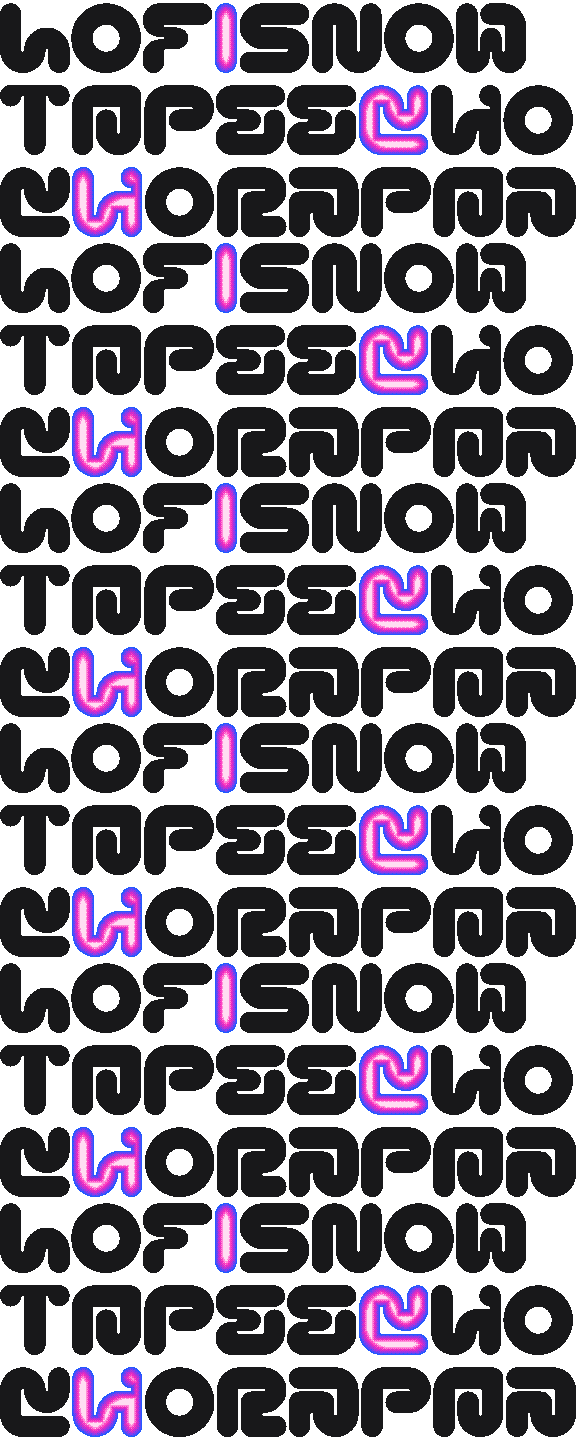
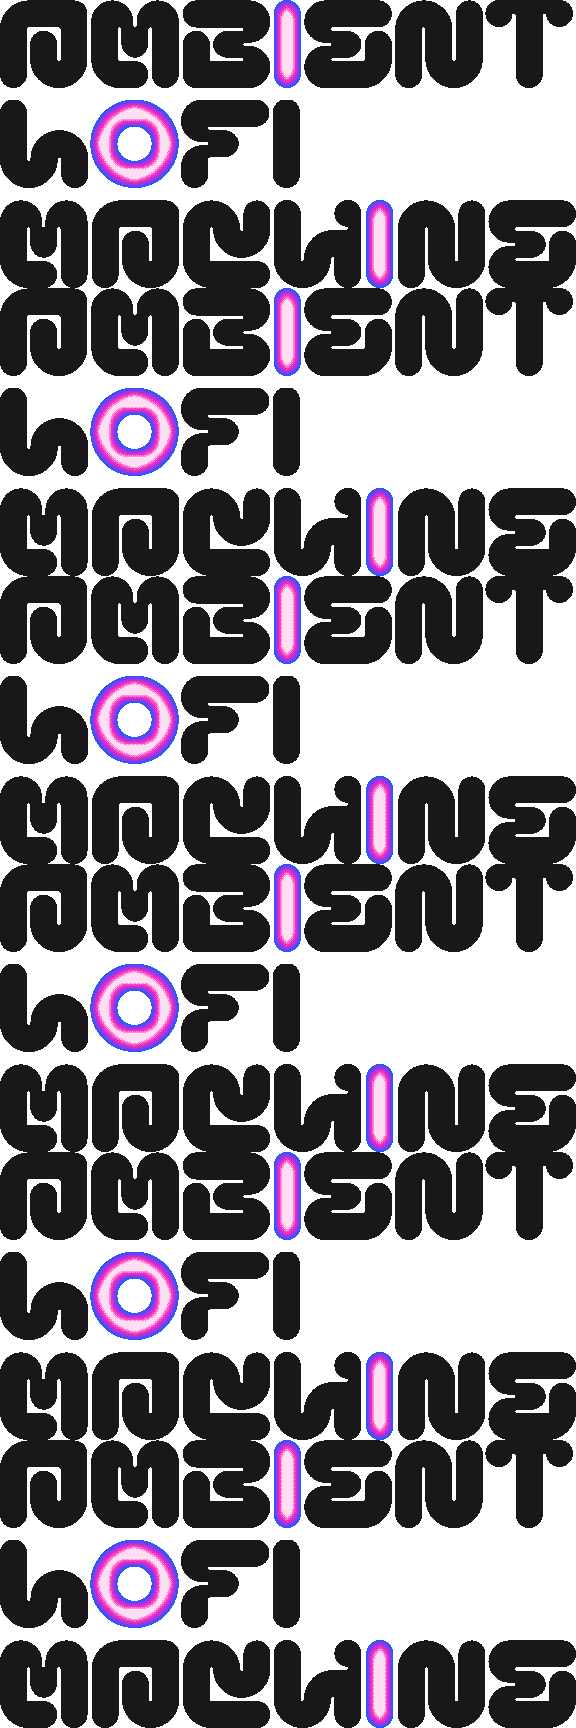
The sounds' lights, the keys in a column, the screens on paper, real words in the footer, the action heats
Section 4 says what the images are: each sound's light, its name and character in a night
chip. The keys are one column of keycaps. Section 5 is on the paper ground, its legend one
line an item, its pages a row of names. The footer reads ambient, lofi, machine. The action
no longer underlines: reached, its core goes pink and its bits run faster; pressed, magenta.

diff --git a/web/style.css b/web/style.css
@@ -66,6 +66,10 @@ kbd {
   border: 0; border-radius: 24px; background: var(--t7); color: #18181a; text-decoration: none;
   border-image: var(--ring24) 24 / 24px repeat;
 }
+/* the light heats as you reach it: hovered, its core goes pink and its bits run faster (app.js); pressed, magenta */
+.lit:hover, .lit:focus-visible, .pill:hover, .pill:focus-visible, .page:hover { text-decoration: none; background: #ff8cda; outline: none; }
+.lit:active, .pill:active, .page:active { background: var(--t4); color: #f5f5f2; }
+.page:active span, .page:active kbd { color: #f5f5f2; }
 .heat { position: absolute; left: 0; top: 0; image-rendering: pixelated; }
 .hov { position: relative; }
 .hov:hover::after { content: ""; position: absolute; inset: 0; pointer-events: none; z-index: 3; border-image: var(--ring24) 24 / 24px repeat; }
@@ -96,20 +100,23 @@ figure.hov:hover::after { border-image: var(--ring12) 12 / 12px repeat; }
 .card > p { position: absolute; z-index: 2; }
 
 /* ---- 01 play: the machine on its light */
-.play { grid-template-rows: repeat(19, var(--m)); }
+.play { grid-template-rows: repeat(22, var(--m)); }
 .emu { grid-column: 3 / span 20; grid-row: 2 / span 13; display: flex; align-items: center; justify-content: center; overflow: hidden; background: #141416; border-color: #141416; }
 .panel { position: relative; z-index: 1; width: min(100% - 96px, var(--ph) * 1.6283); aspect-ratio: 876 / 538; }
 .panel svg { display: block; width: 100%; height: 100%; touch-action: none; user-select: none; }
 .panel canvas { position: absolute; image-rendering: pixelated; border-radius: 4px; }
 .power { grid-column: 3 / span 4; grid-row: 16; }
-.vol { grid-column: 8 / span 6; grid-row: 16; display: flex; align-items: center; gap: 12px; }
+.vol { grid-column: 3 / span 8; grid-row: 18; display: flex; align-items: center; gap: 12px; }
 .vol .lb { color: var(--ink); }
 .ticks { flex: 1; height: 24px; display: flex; align-items: center; justify-content: space-between; cursor: ew-resize; touch-action: none; }
 .ticks i { width: 1px; height: 12px; background: var(--line); }
 .ticks i.on { background: var(--ink); }
 .ticks i.at { width: 2px; height: 24px; background: var(--t4); }
-.keys { grid-column: 3 / span 20; grid-row: 17 / span 2; display: flex; flex-wrap: wrap; align-content: flex-start; gap: 0 32px; padding-top: 12px; color: var(--label); }
-.keys > span { display: inline-flex; align-items: center; gap: 6px; height: 24px; margin-bottom: 24px; }
+/* the keys: one column, a row each, the keycaps in their own column */
+.keys { grid-column: 13 / span 10; grid-row: 16 / span 6; margin: 0; padding: 0; list-style: none; display: grid; grid-auto-rows: var(--m); color: var(--label); }
+.keys li { display: grid; grid-template-columns: calc(4 * var(--m)) 1fr; align-items: center; box-shadow: inset 0 1px 0 var(--line); }
+.keys li:first-child { box-shadow: none; }
+.keys li > span { display: inline-flex; align-items: center; gap: 6px; color: var(--ink); }
 
 /* ---- 02 the machine: cards of the sizes their content asks, linked as nodes */
 .machine { grid-template-rows: repeat(10, var(--m)); }
@@ -148,25 +155,28 @@ figure.hov:hover::after { border-image: var(--ring12) 12 / 12px repeat; }
 .plate { grid-column: 1 / -1; grid-row: 7 / span 6; width: 100%; aspect-ratio: 4 / 1; }
 
 /* ---- 04 the light: each piece its own proportion, 8-bit, every edge on a line */
-.art { grid-template-rows: repeat(14, var(--m)); }
+.art { grid-template-rows: repeat(17, var(--m)); }
+.art .say { grid-column: 1 / span 16; grid-row: 2 / span 2; }
 .art figure { position: relative; width: calc(100% + 1px); height: calc(100% + 1px); border-radius: 12px; overflow: hidden; background: #141416; }
-.art figcaption { position: absolute; z-index: 2; left: 12px; top: 12px; color: #77777a; }
-.art figcaption b { color: #f5f5f2; margin-right: 6px; }
-.a1 { grid-column: 1 / span 12; grid-row: 2 / span 8; }
-.a2 { grid-column: 14 / span 6; grid-row: 2 / span 4; }
-.a3 { grid-column: 21 / span 4; grid-row: 2 / span 5; }
-.a4 { grid-column: 14 / span 4; grid-row: 7 / span 7; }
-.a5 { grid-column: 19 / span 6; grid-row: 7 / span 3; }
-.a6 { grid-column: 19 / span 6; grid-row: 11 / span 3; }
-.a7 { grid-column: 1 / span 12; grid-row: 11 / span 3; }
+/* a card's title on the light: what, which, in a chip of the night ground so it reads on any glow */
+.art figcaption { position: absolute; z-index: 2; left: 12px; top: 12px; padding: 0 12px; display: flex; flex-direction: column;
+  background: #141416; border-radius: 12px; color: #77777a; }
+.art figcaption b { color: #f5f5f2; }
+.a1 { grid-column: 1 / span 12; grid-row: 5 / span 8; }
+.a2 { grid-column: 14 / span 6; grid-row: 5 / span 4; }
+.a3 { grid-column: 21 / span 4; grid-row: 5 / span 5; }
+.a4 { grid-column: 14 / span 4; grid-row: 10 / span 7; }
+.a5 { grid-column: 19 / span 6; grid-row: 10 / span 3; }
+.a6 { grid-column: 19 / span 6; grid-row: 14 / span 3; }
+.a7 { grid-column: 1 / span 12; grid-row: 14 / span 3; }
 .art .seal { width: auto; height: auto; overflow: visible; background: none; border-radius: 0; }
 .art .seal .bits { width: 192px; height: 192px; }
-.art .seal figcaption { left: 0; top: 204px; color: var(--label); }
+.art .seal figcaption { left: 0; top: 192px; padding: 0; background: none; border-radius: 0; color: var(--label); }
 .art .seal figcaption b { color: var(--ink); }
 
 /* ---- 05 the screens: one at 1.5x (whole pixels on a retina screen) in its lit frame, five marks on it and their
- * legend, and the twelve pages as an index, the one shown lit */
-.screens { grid-template-rows: repeat(16, var(--m)); }
+ * legend, and the twelve pages as a row of names, the one shown lit */
+.screens { grid-template-rows: repeat(17, var(--m)); }
 .main { grid-column: 1 / span 9; grid-row: 2 / span 9; position: relative; }
 .main .frame { position: absolute; left: 0; top: 0; width: 432px; height: 432px; }
 .main .f288 { display: none; }
@@ -182,13 +192,11 @@ figure.hov:hover::after { border-image: var(--ring12) 12 / 12px repeat; }
 .m4 { left: 150px; top: 177px; } .m5 { left: 123px; top: 249px; }
 .shown { grid-column: 1 / span 9; grid-row: 11; padding-top: 12px; color: var(--label); }
 .shown b { color: var(--ink); margin-right: 6px; }
-.legend { grid-column: 11 / span 6; grid-row: 2 / span 10; margin: 0; padding: 0; list-style: none; display: grid; grid-auto-rows: calc(2 * var(--m)); }
-.legend li { display: grid; grid-template-columns: 36px 1fr; align-content: start; padding-top: 12px; }
-.legend li b { grid-column: 2; }
-.legend li .mk { grid-row: 1 / span 2; }
-.legend li span { grid-column: 2; color: var(--label); }
-.index { grid-column: 18 / span 7; grid-row: 2 / span 13; display: grid; grid-auto-rows: var(--m); }
-.ih { padding-top: 12px; color: var(--label); }
+.legend { grid-column: 11 / span 14; grid-row: 2 / span 10; margin: 0; padding: 0; list-style: none; display: grid; grid-auto-rows: calc(2 * var(--m)); }
+.legend li { display: flex; flex-wrap: wrap; align-items: flex-start; align-content: flex-start; column-gap: 12px; padding-top: 12px; }
+.legend li span { color: var(--label); }
+.index { grid-column: 1 / -1; grid-row: 13 / span 3; display: grid; grid-template-columns: repeat(6, calc(4 * var(--m))); grid-auto-rows: var(--m); }
+.ih { grid-column: 1 / -1; padding-top: 12px; color: var(--label); }
 .ih b { color: var(--ink); margin-right: 6px; }
 .page {
   width: calc(100% + 1px); height: calc(var(--m) + 1px); display: flex; align-items: center; gap: 12px; padding: 0 12px;
@@ -196,12 +204,11 @@ figure.hov:hover::after { border-image: var(--ring12) 12 / 12px repeat; }
 }
 .page span { color: var(--label); }
 .page.on, .page:hover, .page:focus-visible { background: var(--t7); color: #18181a; border-image: var(--ring24) 24 / 24px repeat; outline: none; }
-.page.on span, .page:hover span, .page:focus-visible span { color: #8e8e8a; }
-.page.on kbd, .page:hover kbd, .page:focus-visible kbd { color: #18181a; border-color: #8e8e8a; }
+.page:hover { background: #ff8cda; }
 
 /* ---- the footer: the words, whole, ink on paper; the links; the end */
-.bandrow { grid-template-rows: repeat(12, var(--m)); }
-.band { grid-column: 1 / -1; grid-row: 2 / span 10; width: 100%; aspect-ratio: 576 / 240; }
+.bandrow { grid-template-rows: repeat(14, var(--m)); }
+.band { grid-column: 1 / -1; grid-row: 2 / span 12; width: 100%; aspect-ratio: 2 / 1; }
 .foot { box-shadow: inset 0 1px 0 var(--ink); }
 .foot > * { padding-top: 12px; font-weight: 500; }
 .links { grid-template-rows: var(--m); }
@@ -221,11 +228,11 @@ figure.hov:hover::after { border-image: var(--ring12) 12 / 12px repeat; }
   .mark { grid-row: 2 / span 4; }
   .hero .say { grid-column: 1 / span 16; grid-row: 7 / span 2; }
   .hero .meta { grid-column: 1 / span 10; grid-row: 9 / span 3; padding-top: 12px; }
-  .play { grid-template-rows: repeat(18, var(--m)); }
+  .play { grid-template-rows: repeat(23, var(--m)); }
   .emu { grid-column: 1 / span 16; grid-row: 2 / span 11; }
   .power { grid-column: 1 / span 4; grid-row: 14; }
-  .vol { grid-column: 6 / span 6; grid-row: 14; }
-  .keys { grid-column: 1 / span 16; grid-row: 15 / span 3; }
+  .vol { grid-column: 6 / span 7; grid-row: 14; }
+  .keys { grid-column: 1 / span 12; grid-row: 16 / span 6; }
   .machine { grid-template-rows: repeat(15, var(--m)); }
   .c3 { grid-column: 1 / span 16; grid-row: 11 / span 4; }
   .c3 .big { left: auto; right: 23px; top: 23px; }
@@ -233,18 +240,20 @@ figure.hov:hover::after { border-image: var(--ring12) 12 / 12px repeat; }
   .text .say { grid-column: 1 / span 16; grid-row: 2 / span 3; }
   .text .meta { grid-column: 1 / span 10; grid-row: 5 / span 3; padding-top: 12px; }
   .plate { grid-row: 9 / span 4; }
-  .art { grid-template-rows: repeat(19, var(--m)); }
-  .a1 { grid-column: 1 / span 16; grid-row: 2 / span 8; }
-  .a2 { grid-column: 1 / span 7; grid-row: 11 / span 4; }
-  .a3 { grid-column: 9 / span 4; grid-row: 11 / span 5; }
-  .a5 { grid-column: 1 / span 7; grid-row: 16 / span 3; }
-  .a7 { grid-column: 9 / span 8; grid-row: 16 / span 3; }
+  .art { grid-template-rows: repeat(22, var(--m)); }
+  .art .say { grid-column: 1 / span 16; grid-row: 2 / span 2; }
+  .a1 { grid-column: 1 / span 16; grid-row: 5 / span 8; }
+  .a2 { grid-column: 1 / span 7; grid-row: 14 / span 4; }
+  .a3 { grid-column: 9 / span 4; grid-row: 14 / span 5; }
+  .a5 { grid-column: 1 / span 7; grid-row: 19 / span 3; }
+  .a7 { grid-column: 9 / span 8; grid-row: 19 / span 3; }
   .art .a4, .art .a6 { display: none; }
-  .screens { grid-template-rows: repeat(21, var(--m)); }
-  .index { grid-column: 1 / -1; grid-row: 13 / span 7; grid-template-columns: repeat(2, calc(8 * var(--m))); grid-auto-flow: column; grid-template-rows: repeat(7, var(--m)); }
-  .ih { grid-row: 1; grid-column: 1 / -1; }
-  .bandrow { grid-template-rows: repeat(8, var(--m)); }
-  .band { grid-row: 2 / span 7; }
+  .screens { grid-template-rows: repeat(18, var(--m)); }
+  .legend { grid-column: 11 / span 6; }
+  .legend li { flex-direction: column; }
+  .index { grid-row: 13 / span 4; grid-template-columns: repeat(4, calc(4 * var(--m))); }
+  .bandrow { grid-template-rows: repeat(10, var(--m)); }
+  .band { grid-row: 2 / span 8; }
   .links { grid-template-rows: repeat(2, var(--m)); }
   .fin { grid-template-rows: repeat(4, var(--m)); }
   .fin > :nth-child(1) { grid-column: 1 / span 4; grid-row: 1; }
@@ -263,13 +272,13 @@ figure.hov:hover::after { border-image: var(--ring12) 12 / 12px repeat; }
   .mark { grid-column: 1 / -1; grid-row: 2 / span 2; align-self: center; }
   .hero .say { grid-column: 1 / -1; grid-row: 5 / span 3; }
   .hero .meta { grid-column: 1 / -1; grid-row: 8 / span 3; padding-top: 0; }
-  .play { grid-template-rows: repeat(15, var(--m)); }
+  .play { grid-template-rows: repeat(24, var(--m)); }
   .emu { grid-column: 1 / -1; grid-row: 2 / span 5; }
   .panel { width: min(100% - 48px, var(--ph) * 1.6283); }
   .power { grid-column: 1 / span 4; grid-row: 8; }
   .vol { grid-column: 1 / -1; grid-row: 9; }
-  .keys { grid-column: 1 / -1; grid-row: 10 / span 5; }
-  .keys > span { margin-bottom: 0; height: 48px; }
+  .keys { grid-column: 1 / -1; grid-row: 11 / span 12; grid-auto-rows: calc(2 * var(--m)); }
+  .keys li { grid-template-columns: 1fr; align-content: center; }
   .machine { grid-template-rows: repeat(23, var(--m)); }
   .c1 { grid-column: 1 / -1; grid-row: 2 / span 7; }
   .c2 { grid-column: 1 / -1; grid-row: 10 / span 4; }
@@ -284,11 +293,12 @@ figure.hov:hover::after { border-image: var(--ring12) 12 / 12px repeat; }
   .text .say { grid-column: 1 / -1; grid-row: 2 / span 4; }
   .text .meta { grid-column: 1 / -1; grid-row: 6 / span 5; padding-top: 0; }
   .plate { grid-row: 11 / span 2; }
-  .art { grid-template-rows: repeat(22, var(--m)); }
-  .a1 { grid-column: 1 / -1; grid-row: 2 / span 5; }
-  .a2 { grid-column: 1 / -1; grid-row: 8 / span 4; }
-  .a3 { grid-column: 1 / span 4; grid-row: 13 / span 5; }
-  .a5 { grid-column: 1 / -1; grid-row: 19 / span 3; }
+  .art { grid-template-rows: repeat(27, var(--m)); }
+  .art .say { grid-column: 1 / -1; grid-row: 2 / span 4; }
+  .a1 { grid-column: 1 / -1; grid-row: 7 / span 5; }
+  .a2 { grid-column: 1 / -1; grid-row: 13 / span 4; }
+  .a3 { grid-column: 1 / span 4; grid-row: 18 / span 5; }
+  .a5 { grid-column: 1 / -1; grid-row: 24 / span 3; }
   .art .a4, .art .a6, .art .a7 { display: none; }
   .screens { grid-template-rows: repeat(34, var(--m)); }
   .main { grid-column: 1 / -1; grid-row: 2 / span 6; }
@@ -299,9 +309,10 @@ figure.hov:hover::after { border-image: var(--ring12) 12 / 12px repeat; }
   .m4 { left: 120px; top: 114px; } .m5 { left: 102px; top: 162px; }
   .shown { grid-column: 1 / -1; grid-row: 8; padding-left: 48px; }
   .legend { grid-column: 1 / -1; grid-row: 9 / span 10; }
-  .index { grid-column: 1 / -1; grid-row: 20 / span 13; }
-  .bandrow { grid-template-rows: repeat(5, var(--m)); }
-  .band { grid-row: 2 / span 3; align-self: center; }
+  .legend li { flex-direction: column; }
+  .index { grid-row: 20 / span 13; grid-template-columns: 1fr; }
+  .bandrow { grid-template-rows: repeat(6, var(--m)); }
+  .band { grid-row: 2 / span 4; align-self: center; }
   .links { grid-template-rows: repeat(6, var(--m)); }
   .links > * { grid-column: 1 / -1; }
   .fin { grid-template-rows: repeat(8, var(--m)); }

diff --git a/web/index.html b/web/index.html
@@ -44,14 +44,14 @@
     <button class="power lit" id="power">Power on</button>
     <div class="vol"><span class="lb">Volume</span><span class="ticks" id="vol" role="slider" aria-label="Volume"
       aria-valuemin="0" aria-valuemax="100" aria-valuenow="80" tabindex="0"></span></div>
-    <p class="keys">
-      <span><kbd>Z</kbd>–<kbd>/</kbd> <kbd>S</kbd>–<kbd>'</kbd> <kbd>Q</kbd>–<kbd>O</kbd> Keys</span>
-      <span><kbd>1</kbd>–<kbd>=</kbd> FX … REC</span>
-      <span><kbd>[</kbd> <kbd>]</kbd> OCT</span>
-      <span><kbd>↑</kbd> <kbd>↓</kbd> Select</span>
-      <span><kbd>←</kbd> <kbd>→</kbd> Algorithm</span>
-      <span><kbd>Shift</kbd>-click holds a button</span>
-    </p>
+    <ul class="keys" aria-label="The computer's keys">
+      <li><span><kbd>Z</kbd>–<kbd>/</kbd> <kbd>S</kbd>–<kbd>'</kbd></span>The lower keys, F3 to A4</li>
+      <li><span><kbd>Q</kbd>–<kbd>O</kbd></span>The upper keys, B4 to G5</li>
+      <li><span><kbd>1</kbd>–<kbd>=</kbd></span>The twelve buttons, FX to REC</li>
+      <li><span><kbd>[</kbd> <kbd>]</kbd></span>OCT− and OCT+</li>
+      <li><span><kbd>↑</kbd> <kbd>↓</kbd> <kbd>←</kbd> <kbd>→</kbd></span>Select, then Algorithm</li>
+      <li><span><kbd>Shift</kbd> click</span>Holds a button down</li>
+    </ul>
   </section>
 
   <!-- 02 the machine: cards of the sizes their content asks, linked as nodes -->
@@ -89,21 +89,22 @@
     <div class="plate bits" style="--src: url(img/plate.png)" role="img" aria-label="Ambient, in line and in light"></div>
   </section>
 
-  <!-- 04 the light: the art on the grid, each piece its own proportion, 8-bit -->
-  <section class="g strip"><span class="no">04</span><span class="lb">Light</span></section>
+  <!-- 04 the sounds: each one's light, as it glows on the screen while it plays -->
+  <section class="g strip"><span class="no">04</span><span class="lb">Sounds</span></section>
   <section class="g art">
-    <figure class="a1 hov"><canvas class="heat" data-heat="img/art/flow.png"></canvas><figcaption><b>Image</b> Flow</figcaption></figure>
-    <figure class="a2 hov"><canvas class="heat" data-heat="img/art/pool.png"></canvas><figcaption><b>Image</b> Pool</figcaption></figure>
-    <figure class="a3 seal"><div class="bits" style="--src: url(img/seal.png)" role="img" aria-label="The seal: a ring of ticks round the D"></div><figcaption><b>Seal</b> Phase 0</figcaption></figure>
-    <figure class="a4 hov"><canvas class="heat" data-heat="img/art/rise.png"></canvas><figcaption><b>Image</b> Rise</figcaption></figure>
-    <figure class="a5 hov"><canvas class="heat" data-heat="img/art/drift.png"></canvas><figcaption><b>Image</b> Drift</figcaption></figure>
-    <figure class="a6 hov"><canvas class="heat" data-heat="img/art/twin.png"></canvas><figcaption><b>Image</b> Twin</figcaption></figure>
-    <figure class="a7 hov"><canvas class="heat" data-heat="img/art/wave.png"></canvas><figcaption><b>Image</b> Wave</figcaption></figure>
+    <p class="say">Every sound has its light: the glow the screen gives it while it plays.</p>
+    <figure class="a1 hov"><canvas class="heat" data-heat="img/art/flow.png"></canvas><figcaption><b>Snow pad</b><span>Pad. Slow, wide, a long tail</span></figcaption></figure>
+    <figure class="a2 hov"><canvas class="heat" data-heat="img/art/pool.png"></canvas><figcaption><b>Felt piano</b><span>Sample. Soft hammers, close</span></figcaption></figure>
+    <figure class="a3 seal"><div class="bits" style="--src: url(img/seal.png)" role="img" aria-label="The seal: a ring of ticks round the D"></div><figcaption><b>Phase 0</b><span>Shell, screen, core</span></figcaption></figure>
+    <figure class="a4 hov"><canvas class="heat" data-heat="img/art/rise.png"></canvas><figcaption><b>Glass pluck</b><span>Pluck. Short and bright</span></figcaption></figure>
+    <figure class="a5 hov"><canvas class="heat" data-heat="img/art/drift.png"></canvas><figcaption><b>Tape drone</b><span>Drone. It never stops</span></figcaption></figure>
+    <figure class="a6 hov"><canvas class="heat" data-heat="img/art/twin.png"></canvas><figcaption><b>Echo</b><span>Two repeats, apart</span></figcaption></figure>
+    <figure class="a7 hov"><canvas class="heat" data-heat="img/art/wave.png"></canvas><figcaption><b>Night drive</b><span>A song: eight patterns, live</span></figcaption></figure>
   </section>
 
   <!-- 05 the screens: the display's anatomy, then its pages, one press each -->
-  <section class="g strip dark" id="screens"><span class="no">05</span><span class="lb">Screens</span></section>
-  <section class="g screens dark">
+  <section class="g strip" id="screens"><span class="no">05</span><span class="lb">Screens</span></section>
+  <section class="g screens">
     <figure class="main home">
       <div class="frame f432 bits" style="--src: url(img/frame432.png)" aria-hidden="true"></div>
       <div class="frame f288 bits" style="--src: url(img/frame288.png)" aria-hidden="true"></div>
@@ -119,7 +120,7 @@
       <li><i class="mk">5</i><b>Light</b><span>A blue rim, a magenta body, a pale core</span></li>
     </ol>
     <div class="index" id="pages" aria-label="The pages">
-      <p class="ih"><b>Pages</b> <span>Press one to see it</span></p>
+      <p class="ih"><b>Pages</b> <span>Twelve, each with the button that opens it. Press one to see it.</span></p>
       <button class="page on" data-src="img/screens/01_home.png" data-name="Home" data-say="The synths, the one sounding lit"><kbd>HOME</kbd><b>Home</b><span></span></button>
       <button class="page" data-src="img/screens/02_roll.png" data-name="Roll" data-say="A sequence, the cursor lit"><kbd>SEQ</kbd><b>Roll</b><span></span></button>
       <button class="page" data-src="img/screens/07_chord.png" data-name="Chord" data-say="The chord now, the progression"><kbd>ARP</kbd><b>Chord</b><span></span></button>
@@ -136,7 +137,7 @@
   </section>
 
   <!-- the footer: the words, whole; the links -->
-  <div class="g bandrow"><div class="band bits" style="--src: url(img/band.png)" role="img" aria-label="Lofi, snow, tape, echo, chord, pad"></div></div>
+  <div class="g bandrow"><div class="band bits" style="--src: url(img/band.png)" role="img" aria-label="Ambient lofi machine"></div></div>
   <nav class="g foot links" aria-label="Sequencist, the author">
     <span>By Sequencist</span>
     <a href="https://github.com/InigoHernandez" target="_blank" rel="noopener">GitHub ↗</a>

diff --git a/web/app.js b/web/app.js
@@ -287,6 +287,13 @@
     h.ctx.putImageData(h.data, 0, 0);
   }
 
+  // what the pointer is on heats: its bits run every 60 ms
+  const hot = new Set();
+  ringed.forEach((el) => { el.addEventListener("pointerenter", () => hot.add(el)); el.addEventListener("pointerleave", () => hot.delete(el)); });
+  if (!still) setInterval(() => {
+    for (const el of hot) { const k = rnd(6); el.style.setProperty("--ring24", `url(img/bits/ring24_${k}.png)`); el.style.setProperty("--ring12", `url(img/bits/ring12_${k}.png)`); }
+  }, 60);
+
   // the clock: every 140 ms, about half of what shows takes a new arrangement
   if (!still) setInterval(() => {
     if (document.hidden) return;

diff --git a/tools/gen_art.py b/tools/gen_art.py
@@ -260,9 +260,9 @@ def graphics():
                 out[rim, 3] = 255
         frames.append(out)
     sprite(frames, IMG / "plate.png")
-    # the band: the machine's words in three rows of eight letters, all of one size (the widest row's ink from line to
+    # the band: what it is, "ambient lofi machine", a word a row, all of one size (the widest row's ink from line to
     # line), every letter whole, ink on paper, one letter lit a row (after Kiloy's specimen of rows of letters)
-    rows = [("lofisnow", 3), ("tapeecho", 5), ("chordpad", 1)]
+    rows = [("ambient", 3), ("lofi", 1), ("machine", 4)]     # what it is, a word a row
     f4 = ImageFont.truetype(str(KILOY), 800)
     nat = [f4.getbbox(w) for w, _ in rows]
     widest = max(b[2] - b[0] for b in nat)

diff --git a/docs/plan.md b/docs/plan.md
@@ -770,10 +770,12 @@ hairlines, and a product maker's index; it replaced the specimen table and the o
 - **The sections:** the D and the index; the wordmark; the machine on its light, power, volume as a meter, the keys
   as keycaps (the Felucca emulator's map: Z–/ and S–' the lower keys, Q–O the upper, 1–= the buttons, [ ] OCT, the
   arrows SELECT and ALGORITHM, Shift-click holds a button); the machine's cards linked as nodes; the sound and
-  "ambient" in line and in light; the art in mixed proportions; **the screens** on the night ground: one screen at 1.5x
+  "ambient" in line and in light; **the sounds**, each image a sound's light (the glow the screen gives it while it
+  plays: Snow pad, Felt piano, Glass pluck, Tape drone, Echo, Night drive), its name in a night chip; **the screens** on the paper ground: one screen at 1.5x
   (whole pixels on a retina screen) in its lit frame, five numbered marks on Home's anatomy with their legend (title,
-  fields, meter, cards, light), and the twelve pages as an index, each with its button, the one shown lit; the footer: the machine's
-  words whole, ink on paper, then the owner's links and Ko-fi, as MONO2K's.
+  fields, meter, cards, light), and the twelve pages as a row of names, each with its button, the one shown lit; the footer: the machine's
+  words whole ("ambient lofi machine", a word a row), ink on paper, then the owner's links and Ko-fi, as MONO2K's.
+  The action heats when reached: its core pale to pink, its bits faster; pressed, magenta. No underline.
 
 | Page | What is on it |
 | --- | --- |
